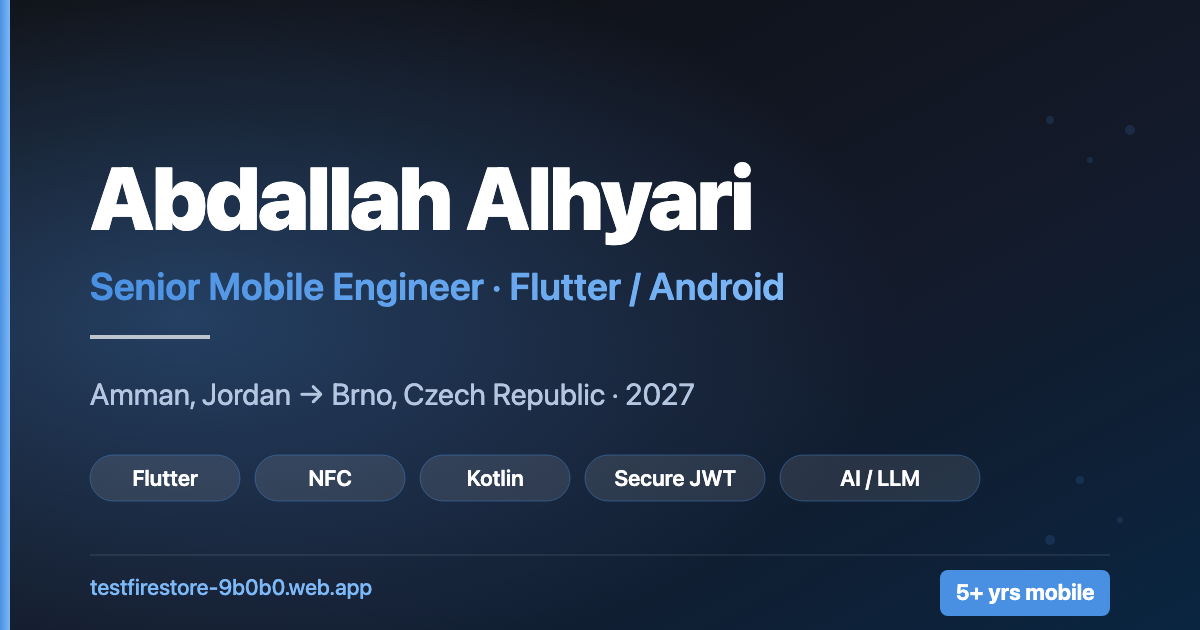
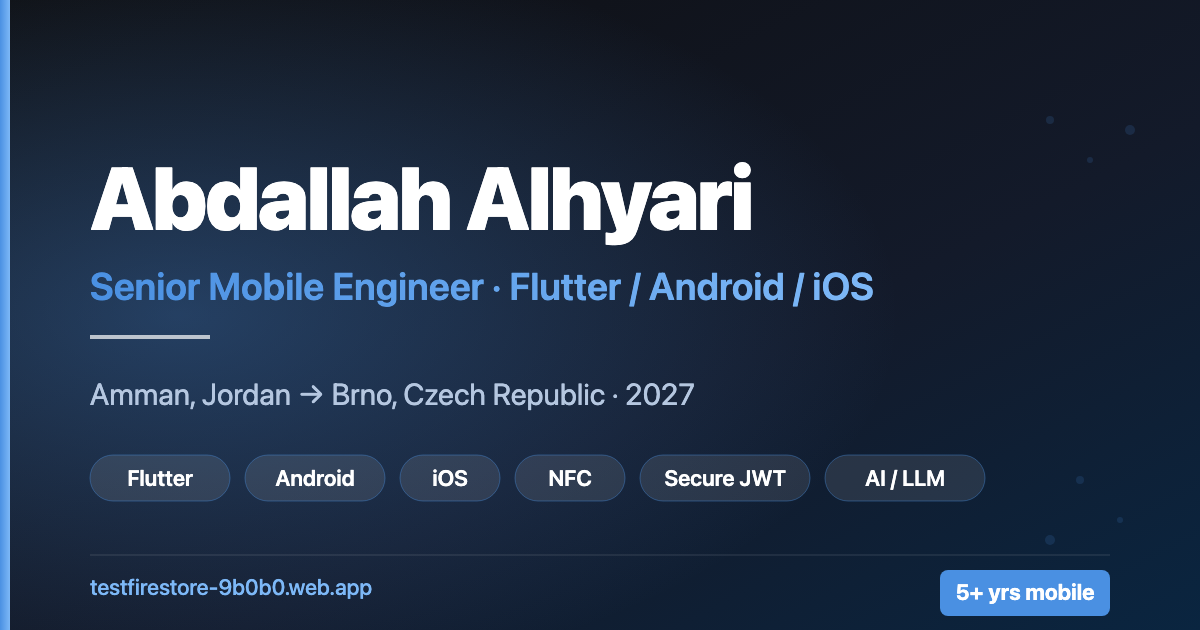
feat(platforms): add iOS across skills / og / role / project stacks
- Skills page: new "iOS (Swift)" tile alongside Android (Kotlin).
- OG card: 6 chips now (Flutter, Android, iOS, NFC, Secure JWT, AI/LLM); role subtitle "Senior Mobile Engineer · Flutter / Android / iOS".
- en/ar intro.role: adds "/ iOS".
- web/index.html: title, og:description, twitter:description, JSON-LD knowsAbout all include iOS / Swift.
- NatHealth project stack: Android + iOS + Kotlin + Swift chips.

diff --git a/web/index.html b/web/index.html
@@ -7,8 +7,8 @@
   <meta http-equiv="X-UA-Compatible" content="IE=Edge">
   <meta name="viewport" content="width=device-width, initial-scale=1, viewport-fit=cover">
 
-  <title>Abdallah Alhyari — Mobile & Software Engineer (Flutter / Android)</title>
-  <meta name="description" content="Portfolio of Abdallah Alhyari — Senior Mobile Engineer with 5+ years shipping Flutter & Android apps in healthcare, NFC auth, secure JWT, e-commerce and enterprise. Amman, Jordan → Brno, Czech Republic 2027.">
+  <title>Abdallah Alhyari — Mobile & Software Engineer (Flutter / Android / iOS)</title>
+  <meta name="description" content="Portfolio of Abdallah Alhyari — Senior Mobile Engineer with 5+ years shipping Flutter, Android & iOS apps in healthcare, NFC auth, secure JWT, e-commerce and enterprise. Amman, Jordan → Brno, Czech Republic 2027.">
   <meta name="author" content="Abdallah Alhyari">
   <meta name="keywords" content="Abdallah Alhyari, Flutter developer, Android developer, mobile engineer, NFC, JWT, healthcare apps, Jordan, Brno, portfolio">
   <meta name="theme-color" content="#0E0E10">
@@ -27,7 +27,7 @@
   <meta property="og:type" content="website">
   <meta property="og:site_name" content="Abdallah Alhyari — Portfolio">
   <meta property="og:title" content="Abdallah Alhyari — Mobile & Software Engineer">
-  <meta property="og:description" content="Senior Mobile Engineer (Flutter / Android). NFC, secure JWT, healthcare, enterprise. Amman → Brno 2027.">
+  <meta property="og:description" content="Senior Mobile Engineer (Flutter / Android / iOS). NFC, secure JWT, healthcare, enterprise. Amman → Brno 2027.">
   <meta property="og:image" content="og-image.png">
   <meta property="og:image:width" content="1200">
   <meta property="og:image:height" content="630">
@@ -38,7 +38,7 @@
   <!-- Twitter -->
   <meta name="twitter:card" content="summary_large_image">
   <meta name="twitter:title" content="Abdallah Alhyari — Mobile & Software Engineer">
-  <meta name="twitter:description" content="Senior Mobile Engineer (Flutter / Android). NFC, secure JWT, healthcare, enterprise.">
+  <meta name="twitter:description" content="Senior Mobile Engineer (Flutter / Android / iOS). NFC, secure JWT, healthcare, enterprise.">
   <meta name="twitter:image" content="og-image.png">
 
   <!-- iOS PWA -->
@@ -79,7 +79,7 @@
       {"@type": "CollegeOrUniversity", "name": "Al-Hussein Bin Talal University"},
       {"@type": "CollegeOrUniversity", "name": "Mendel University in Brno"}
     ],
-    "knowsAbout": ["Flutter", "Dart", "Kotlin", "Android", "NFC", "JWT", "MVVM", "Clean Architecture", "WorkManager", "REST", "Firebase"]
+    "knowsAbout": ["Flutter", "Dart", "Kotlin", "Swift", "Android", "iOS", "NFC", "JWT", "MVVM", "Clean Architecture", "WorkManager", "REST", "RabbitMQ", "AI / LLM", "Firebase"]
   }
   </script>
 
@@ -119,7 +119,7 @@
   <noscript>
     <div class="noscript-block">
       <h1>Abdallah Alhyari</h1>
-      <p>Senior Mobile Engineer — Flutter / Android. Amman, Jordan.</p>
+      <p>Senior Mobile Engineer — Flutter / Android / iOS. Amman, Jordan.</p>
       <p>This portfolio requires JavaScript. Contact:
         <a href="mailto:alhyariabdallh@gmail.com" style="color:#4fc3f7">alhyariabdallh@gmail.com</a>
         · <a href="https://www.linkedin.com/in/abdallah-alhyari-95b915201/" style="color:#4fc3f7">LinkedIn</a>

diff --git a/lib/module/home/data/skills_data.dart b/lib/module/home/data/skills_data.dart
@@ -4,6 +4,7 @@ import '../model/skill.dart';
 const List<Skill> kSkills = [
   Skill(name: 'Flutter / Dart', icon: Icons.flutter_dash, level: 0.95),
   Skill(name: 'Android (Kotlin)', icon: Icons.android, level: 0.85),
+  Skill(name: 'iOS (Swift)', icon: Icons.phone_iphone, level: 0.75),
   Skill(name: 'NFC / Smart Cards', icon: Icons.contactless, level: 0.9),
   Skill(name: 'JWT & Secure Auth', icon: Icons.lock, level: 0.9),
   Skill(name: 'MVVM / Clean Arch', icon: Icons.architecture, level: 0.9),

diff --git a/lib/module/home/data/projects_data.dart b/lib/module/home/data/projects_data.dart
@@ -16,7 +16,10 @@ const List<Project> kProjects = [
     ],
     stack: [
       'Flutter',
+      'Android',
+      'iOS',
       'Kotlin',
+      'Swift',
       'NFC',
       'JWT',
       'WorkManager',
